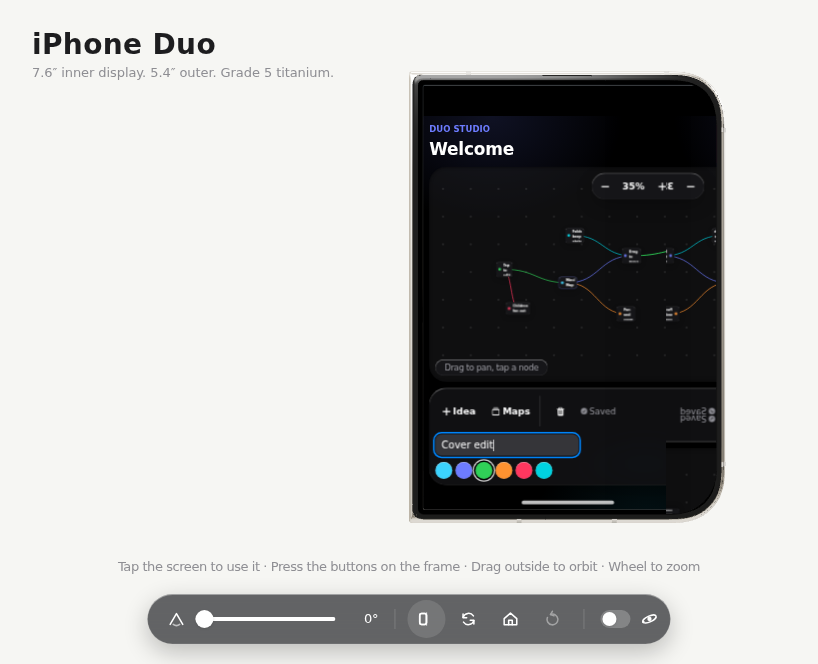
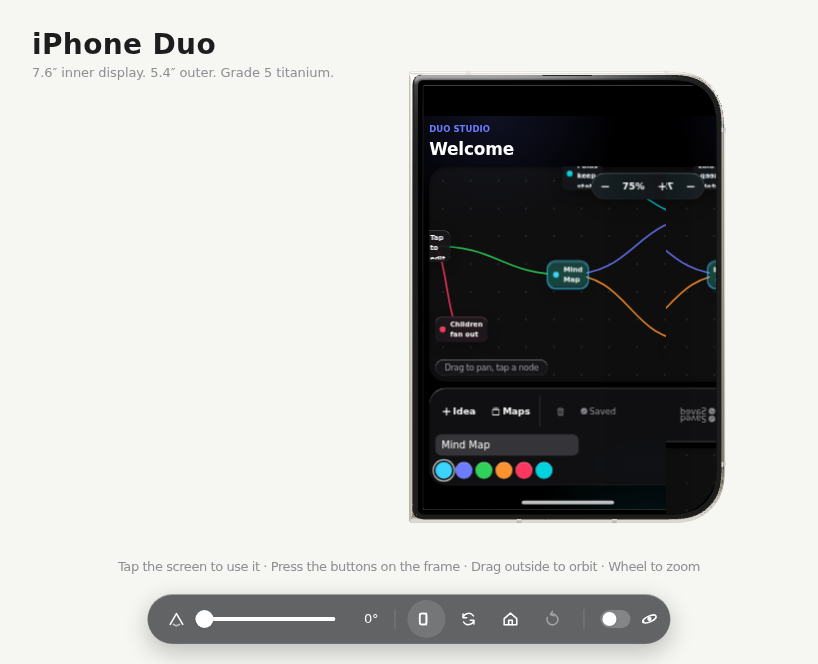
mind-map: legible first-sight framing and per-display refit
Default view centers the root at a legible zoom for each canvas instead
of a whole-map fit that shrank labels below reading size on the cover.
Fit keeps the all-node overview as an explicit action, now guarded on
both box axes.

framedDoc is cleared wherever a doc arrives carrying a view this copy
did not compute - adopt of another display's publish, opening a stored
map, and the delete fallback - so a doc revisited after its view was
written for a different canvas re-frames locally instead of inheriting
the foreign view. Verified: hidden cover adopting a fit view refits on
reveal, and A->B->A switches frame fresh on the opening display.

diff --git a/community-apps/mind-map/main.tsx b/community-apps/mind-map/main.tsx
@@ -80,10 +80,14 @@ function MindMap() {
   const suppressClick = useRef(false)
   const lastSeen = useRef<string | null>(null)
   const seeded = useRef(false)
-  // Maps this copy has already fitted to its own canvas: one shared view
-  // cannot serve a 387pt cover and a 790pt inner, so each display computes
-  // its own framing on first sight of a doc.
-  const framedMine = useRef(new Set<string>())
+  // The doc id this copy framed for its own canvas: one shared view cannot
+  // serve a 387pt cover and a 790pt inner, so each display frames the doc it
+  // is showing. Keyed to the CURRENT doc, not a set - a map left and
+  // revisited must be re-framed for this canvas, not inherit the other
+  // display's stored view. It is cleared wherever a doc arrives carrying a
+  // view this copy did not compute (adopt, open, delete-fallback), so the
+  // frame effect cannot mistake the foreign view for a local fit.
+  const framedDoc = useRef<string | null>(null)
   const docRef = useRef(doc)
   docRef.current = doc
   const selRef = useRef(sel)
@@ -179,9 +183,10 @@ function MindMap() {
     }
     const next = parseMirror(raw)
     if (!next || next.by === ME) return
-    // Keep this copy's own view for a doc it already fitted: a remote fit was
-    // computed for a different canvas and must not replace the local one.
-    const keep = docRef.current?.id === next.doc.id && framedMine.current.has(next.doc.id)
+    // Keep this copy's own view for the doc it already framed: a remote fit
+    // was computed for a different canvas and must not replace the local one.
+    const keep = docRef.current?.id === next.doc.id && framedDoc.current === next.doc.id
+    if (!keep) framedDoc.current = null
     setDoc(keep && docRef.current ? { ...next.doc, view: docRef.current.view } : next.doc)
     setSel(next.sel)
     setArming(null)
@@ -194,21 +199,23 @@ function MindMap() {
     })
   }, [live, stored.status, stored.set])
 
-  // First sight of a doc gets a fit computed for this display's own canvas.
-  // A hidden copy's canvas measures 0x0, so the observer retries once the
-  // fold gives the element a real box; the fitted view is published back so
-  // it also serves as the stored starting view.
+  // First sight of a doc frames the root and its nearest branches at a
+  // legible zoom for THIS canvas: a whole-map fit shrinks labels to dust on
+  // the 387pt cover, so overview stays the dock's explicit Fit button. A
+  // hidden copy's canvas measures 0x0, so the observer retries once the
+  // fold gives the element a real box; the framed view is published back
+  // so it also serves as the stored starting view.
   useEffect(() => {
-    if (!doc || framedMine.current.has(doc.id)) return
+    if (!doc || framedDoc.current === doc.id) return
     const el = canvasRef.current
     if (!el) return
     const fitLocal = () => {
       const box = el.getBoundingClientRect()
-      if (!box.width) return
-      framedMine.current.add(doc.id)
-      const b = docBounds(doc)
-      const zoom = Math.min(1, Math.min((box.width - 96) / b.w, (box.height - 96) / b.h))
-      const next = setView(doc, { x: -b.cx * zoom, y: -b.cy * zoom, zoom, framed: true })
+      if (!box.width || !box.height) return
+      framedDoc.current = doc.id
+      const root = doc.nodes[doc.root]
+      const zoom = Math.min(1, box.width / 480)
+      const next = setView(doc, { x: -(root?.x ?? 0) * zoom, y: -(root?.y ?? 0) * zoom, zoom, framed: true })
       setDoc(next)
       enqueue(async () => {
         const lib = await readLib()
@@ -218,7 +225,7 @@ function MindMap() {
     }
     const f = requestAnimationFrame(fitLocal)
     const ro = new ResizeObserver(() => {
-      if (!framedMine.current.has(doc.id)) fitLocal()
+      if (framedDoc.current !== doc.id) fitLocal()
     })
     ro.observe(el)
     return () => {
@@ -241,7 +248,7 @@ function MindMap() {
   const zoomBy = (factor: number) => publish(setView(doc, { ...doc.view, zoom: doc.view.zoom * factor }))
   const fit = () => {
     const box = canvasRef.current?.getBoundingClientRect()
-    if (!box?.width) return
+    if (!box?.width || !box.height) return
     const b = docBounds(doc)
     const zoom = Math.min(1, Math.min((box.width - 96) / b.w, (box.height - 96) / b.h))
     publish(setView(doc, { x: -b.cx * zoom, y: -b.cy * zoom, zoom }))
@@ -254,7 +261,12 @@ function MindMap() {
     // occluded, so a map the other display just made may not be listed yet.
     void (async () => {
       const next = (await readLib()).maps[id]
-      if (next && next.id !== docRef.current?.id) publish(next, next.root)
+      if (next && next.id !== docRef.current?.id) {
+        // The stored view may have been fit for the other display's canvas:
+        // opening a map is a fresh first sight, so this copy frames it again.
+        framedDoc.current = null
+        publish(next, next.root)
+      }
     })()
   }
   const makeMap = () => {
@@ -275,6 +287,7 @@ function MindMap() {
       const open = docRef.current?.id === id ? (latestDoc(lib) ?? newDoc('Map 1')) : null
       stored.set(serializeLibrary(open ? withDoc(lib, open) : lib))
       if (open) {
+        framedDoc.current = null
         setDoc(open)
         setSel(open.root)
         void os.session.set(DOC_KEY, serializeMirror(ME, open, open.root)).catch(() => {})
